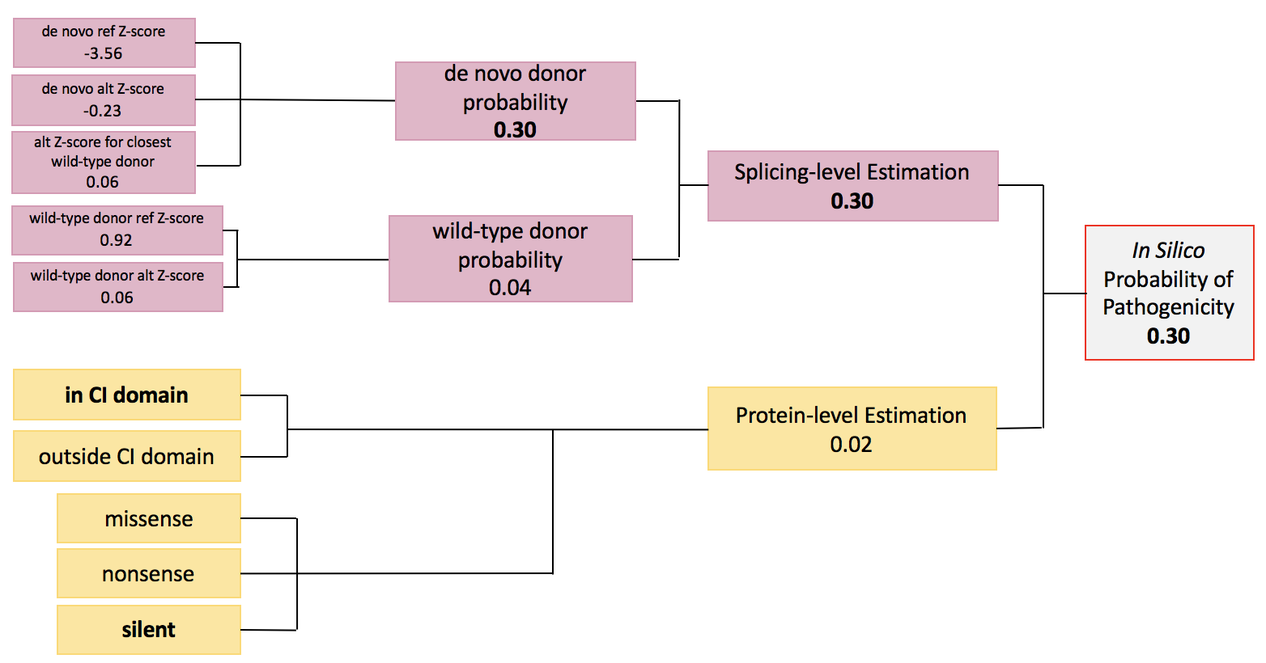
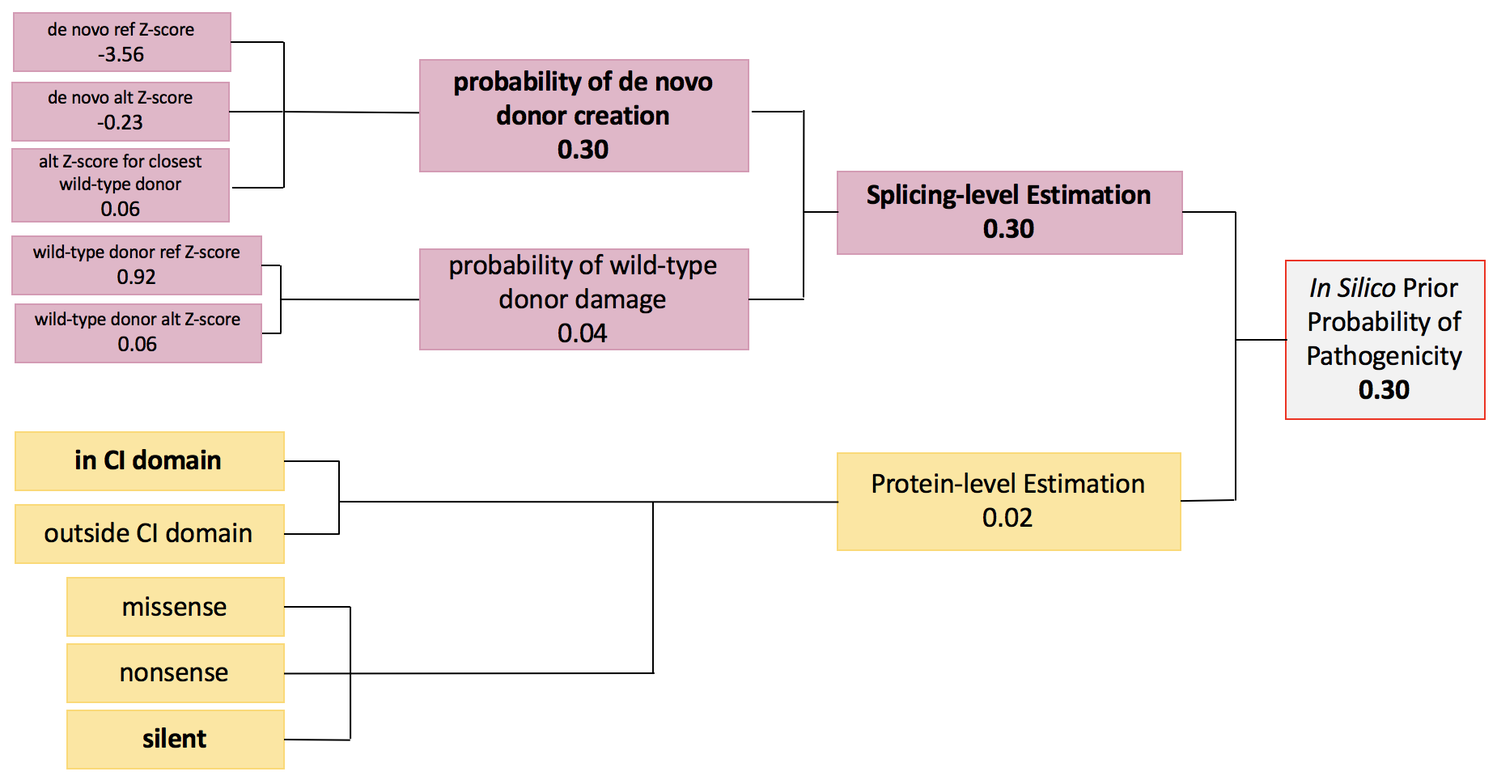
Copied in Amy's documentation updates

diff --git a/website/content/help/research/insilico/insilico-scoring.md b/website/content/help/research/insilico/insilico-scoring.md
@@ -5,11 +5,11 @@ p { text-indent: 2em; }
 
 # Scoring Systems for Splicing-level and Protein-level Estimations
 
-The *In Silico* Probability of Pathogenicity is the greater of two predicted values: the Protein-level Estimation and the Splicing-level Estimation.
+The *In Silico* Prior Probability of Pathogenicity is the greater of two predicted values: the Protein-level Estimation and the Splicing-level Estimation.
 
-## Protein-level Estimations: Align GV-GD Scores
+## Protein-level Estimations: Align-GVGD Scores
 
-For all exonic variants, the "Protein-level Estimation" is calculated using Align GV-GD scores, which assess the protein-level importance of a region per sequence conservation measures and assessments of physiochemical properties. The following figure demonstrates the probabilities of pathogenicity that are used to assign Protein-level Estimation based on variant type (nonsense, missense, silent) and variant location. The estimation accounts for variant location by assessing whether the variant is inside or outside Clinically Important Functional Domains (henceforth CI Domains). CI Domains are modeled according to ENIGMA's criteria.
+For all exonic variants, the “Protein-level Estimation” is calculated using Align-GVGD scores, which assess the protein-level importance of a region per sequence conservation measures and assessments of physiochemical properties. The following figure demonstrates the probabilities of pathogenicity that are used to assign Protein-level Estimation based on variant type (nonsense, missense, silent) and variant location. The estimation accounts for variant location by assessing whether the variant is inside or outside Clinically Important Functional Domains (henceforth CI Domains). CI Domains are modeled according to ENIGMA's designations.
 
 
 ![image 1](scoring-img/img1.png)
@@ -21,15 +21,15 @@ A generalized schema for estimating Protein-level impact is:
 
 ## Splicing-level Estimations: Z-scores and Associated Probabilities
 
-The Splicing-level Estimation is a value that demonstrates the highest possible impact the variant could have on mRNA splicing. Splicing is important since it can have significant impacts on the resulting protein including a completely different amino acid sequence or early truncation. A generalized schema for Splicing-level Estimations is:
+The Splicing-level Estimation is a value that demonstrates the highest possible impact the variant could have on mRNA splicing. Splicing is important since it can have significant impacts on the resulting protein such as a completely different amino acid sequence or early truncation. A generalized schema for Splicing-level Estimations is:
 
 **Z-scores → Wild-type and De Novo Probabilities →  Splicing-level Estimation**
 
-Z-scores underly Splicing-level Estimation. For these calculations, Z-scores measure probability of splicing impact. Alternate Z-scores, or Z-scores for the alternate sequence introduced by the variant, are used to calculate probability of pathogenicity due to splicing. The alternate Z-scores are also compared to reference sequence Z-scores to account for the inherent splicing likelihood in the region, which is often low. Per these Z-scores, predictions are made about splicing impact; probabilities of pathogenicity associated with minimal (or weak/null), moderate, and high impact are assigned as predicted probabilities. There are also probabilities assigned to variants that either improve splicing likelihood or occur outside splice regions.
+Z-scores measure probability of splicing impact. Alternate Z-scores, or Z-scores for the alternate sequence introduced by the variant, measure the probability that the variant affects  splicing. The alternate Z-scores are compared to reference sequence Z-scores to account for the inherent splicing likelihood in the region, which is often low. Predictions are made about splicing impact using these Z-scores; probabilities of pathogenicity associated with minimal (or weak/null), moderate, and high impact are assigned as the predicted probabilities listed in the tables below. There are also probabilities assigned to variants that either improve splicing likelihood or occur outside splice regions.
 
-The Splicing-level Estimation is determined by assessing the variant on two levels, using two sets of Z-scores. A variant is not only assessed for how the altered sequence affects the wild-type splice site (*wild-type acceptor probability, wild-type donor probability*), but also assessed for how it may introduce new, or de novo, donor splice sites  (*de novo probability*).
+The Splicing-level Estimation is determined by assessing the variant on two levels, using two sets of Z-scores. A variant is not only assessed for how the altered sequence affects the wild-type splice site (*probability of wild-type acceptor damage, probability of wild-type donor damage*), but also assessed for how it may introduce new, or de novo, donor splice sites (*probability of de novo donor creation*). 
 
-A Z-score greater than 0 (or 0.5) indicates a better than average likelihood of splicing. If a Z-score is greater than 0 for a *wild-type donor* that contains a variant, function is being retained despite the mutation. However, a Z-score greater than 0 for a *de novo dono*r indicates possible interference of wild-type splice function. In this case, likelihood of splicing outside the wild-type splice site is increasing. The Z-score ranges associated with probabilities of pathogenicity in the case of wild-type donor damage, wild-type acceptor damage, and de novo donor creation are provided below.
+A Z-score greater than 0 (or 0.5) indicates a better than average likelihood of splicing. If a Z-score is greater than 0 for a *wild-type donor*, splicing function is predicted to be retained despite the mutation. However, a Z-score greater than 0 for a *de novo donor* indicates possible interference of wild-type splice function. In this case, likelihood of splicing outside the wild-type splice site is increasing. The Z-score ranges associated with probabilities of pathogenicity in the case of wild-type donor damage, wild-type acceptor damage, and de novo donor creation are provided below.
 
 <img src="scoring-img/img2.png" style="width: 600px;" />
 <img src="scoring-img/img3.png" style="width: 500px;" />
@@ -37,7 +37,7 @@ A Z-score greater than 0 (or 0.5) indicates a better than average likelihood of 
 
 Examples and schemas for how these calculations are made for BRCA Exchange are available in following sections.
 
-# Examples of Calculation Schemas for *In Silico* Probabilities
+# Examples of Calculation Schemas for *In Silico* Prior Probabilities
 
 Below you will find examples of numerous variants across different locations in the *BRCA1* or *BRCA2* gene. Location and information related to splice donors are indicated by pink, while splice acceptors are indicated by blue.
 
@@ -45,7 +45,7 @@ Below you will find examples of numerous variants across different locations in 
 
 Example: [BRCA1 c.132C>T](http://brcaexchange.org/variant/105248)
 
-Because the variant is located in an exon and in a wild-type donor splice site region, the following priors are used in predicting the *In Silico* Probability of Pathogenicity:
+Because the variant is located in an exon and in a wild-type donor splice site region, the following priors are used in predicting the *In Silico* Prior Probability of Pathogenicity:
 
 *   De Novo donor probability (Splicing-level Estimation)
 *   Wild-type donor probability (Splicing-level Estimation)
@@ -54,41 +54,37 @@ Because the variant is located in an exon and in a wild-type donor splice site r
 
 ![image 5](scoring-img/img5.png)
 
-[Caption]
-
 ![image 6](scoring-img/img6.png)
 
-The *In Silico* Probability of Pathogenicity is assigned per the Splicing-level estimation, because the estimated splicing-level impact (0.30)  is greater than estimated protein-level impact (0.02).
+The *In Silico* Prior Probability of Pathogenicity is assigned per the Splicing-level estimation, because the estimated splicing-level impact (0.30)  is greater than estimated protein-level impact (0.02).
 
 Though the variant is in a CI domain, it is a silent mutation. Accordingly, the Protein-level Estimation assigned is low, with a value of 0.02.
 
-The Splicing-level estimation is considered moderate, or 0.30, and is due to the de novo donor probability, which is higher than wild-type donor probability. The de novo alternate Z-score is greater than -2 but less than 0, indicating moderate risk of splicing interference due to de novo splice site creation. It is also worth noting that the de novo alternate Z-score is significantly greater compared to the de novo reference Z-score, implicating that the splicing probability in that region has increased. Conversely, the wild-type donor probability is considered low (0.04) because the wild-type donor alt Z-score is greater than 0; splicing probability in the wild-type donor is retained despite the variant's presence in that region.
+The Splicing-level estimation is considered moderate, or 0.30, and is due to the de novo donor probability, which is higher than wild-type donor probability. The de novo alternate Z-score is greater than -2 but less than 0, indicating moderate probability of splicing interference due to de novo splice site creation. It is also worth noting that the de novo alternate Z-score is significantly greater compared to the de novo reference Z-score, implicating that the splicing probability in that region has increased. Conversely, the wild-type donor probability is considered low (0.04) because the wild-type donor alt Z-score is greater than 0; splicing probability in the wild-type donor is retained despite the variant’s presence in that region.
 
 ### Exonic Variant Located in Wild-Type Splice Site's Acceptor Region
 
 Example: [BRCA1 c.442c>t](http://brcaexchange.org/variant/104977)
 
-Because the variant is located in an exon and in a wild-type acceptor splice site region, the following values are used in predicting the *In Silico* Probability of Pathogenicity:
+Because the variant is located in an exon and in a wild-type acceptor splice site region, the following values are used in predicting the *In Silico* Prior Probability of Pathogenicity: 
 
-*   De Novo donor probability (splicing-level Estimation)
-*   Wild-type acceptor probability (splicing-level Estimation)
+*   De Novo donor probability (Splicing-level Estimation)
+*   Wild-type acceptor probability (Splicing-level Estimation)
 *   Protein-level Estimation
 
 ![image 7](scoring-img/img7.png)
 
-[Caption]
-
 ![image 8](scoring-img/img8.png)
 
-This variant is a nonsense variant, so the *In Silico* Probability of Pathogenicity** **is ultimately assigned per the protein-level estimation (0.99), which is a higher predicted probability of pathogenicity than the splicing-level estimation (0.34).
+This variant is a nonsense variant, so the *In Silico* Prior Probability of Pathogenicity is ultimately assigned per the protein-level estimation (0.99), which is a higher predicted probability of pathogenicity than the splicing-level estimation (0.34).
 
-The Splicing-level Estimation is considered moderate, 0.34, and is due to the wild-type acceptor probability. The wild-type acceptor alt Z-score is less than -1.5, which is normally considered high risk. However, the wild-type acceptor ref Z-score is already less than -1.5, meaning that the risk is not being introduced by the variant, though splicing probability is decreased. A moderate score of 0.34 is thus assigned due to a decrease, but not a drastic decrease, in splicing probability.  The de novo alt Z-score is very low (0.2), indicating that there is low likelihood of de novo splicing occuring in a mutant splice site.
+The Splicing-level Estimation is considered moderate, 0.34, and is due to the wild-type acceptor probability. The wild-type acceptor alt Z-score is less than -1.5, which is normally considered a high acceptor splice site prediction. However, the wild-type acceptor ref Z-score is already less than -1.5, meaning that the acceptor site has a low prediction before the introduction of the variant, though splicing probability is still decreased by the presence of the variant. A moderate score of 0.34 is thus assigned due to a decrease, but not a drastic decrease, in splicing probability.  The de novo alt Z-score is very low (0.2), indicating that there is low likelihood of de novo splicing occurring in a mutant splice site.
 
 ### Exonic Variant Located in Non-splicing Region
 
 Example: [BRCA1 c.55c>t](http://brcaexchange.org/variant/105343)
 
-Because the variant is located in an exon, but not a splicing region, the following values are used in predicting the *In Silico* Probability of Pathogenicity:
+Because the variant is located in an exon, but not a splicing region, the following values are used in predicting the *In Silico* Prior Probability of Pathogenicity:
 
 *   De novo donor probability (Splicing-level Estimation)
 *   Protein-level Estimation
@@ -97,59 +93,52 @@ A de novo donor prior is calculated because the variant could theoretically intr
 
 ![image 9](scoring-img/img9.png)
 
-[Caption]
-
 ![image 10](scoring-img/img10.png)
 
-This variant is a nonsense variant, so the *In Silico* Probability of Pathogenicity** **is ultimately assigned per the protein-level estimation (0.99), which is a higher predicted probability of pathogenicity than the splicing-level estimation (0.02).
+This variant is a nonsense variant, so the *In Silico* Prior Probability of Pathogenicity is ultimately assigned per the Protein-level Estimation (0.99), which is a higher predicted probability of pathogenicity than the Splicing-level Estimation (0.02).
 
-The Splicing-level Estimation is due to the de novo donor probability. The de novo alt Z-score is less than -2, indicating low probability of de novo splicing in that region. Furthermore, the ref Z-score for the nearest wild-type donor is much greater, indicating that splicing is more likely to occur in the wild-type donor region. The wild-type donor probability is not applicable because the variant is not in a donor (or acceptor) region.
+The Splicing-level Estimation is due to the de novo donor probability. The de novo alt Z-score is less than -2, indicating low probability of de novo splicing in that region. Furthermore, the ref Z-score for the nearest wild-type donor is much greater, indicating that splicing is more likely to occur in the wild-type donor region. The wild-type donor probability is not applicable because the variant is not in a donor (or acceptor) region. 
 
 ### Intronic Variant Located in Wild-Type Splice Site's Donor Region
 
 ### Example: [c.441+2t>G](http://brcaexchange.org/variant/104996)
 
-Because the variant is located in an intron and a wild-type donor splice site region, the following values are used in predicting the *In Silico* Probability of Pathogenicity:
+Because the variant is located in an intron and a wild-type donor splice site region, the following values are used in predicting the *In Silico* Prior Probability of Pathogenicity:
 
 *   De novo donor probability (Splicing-level Estimation)
 *   Wild-type donor prior (Splicing-level Estimation)
 
-###
 
 ![image 11](scoring-img/img11.png)
 
-[Caption]
-
 ![image 12](scoring-img/img12.png)
 
-The *In Silico* Probability of Pathogenicity is assigned per the Splicing-level Estimation (0.97), because intronic variants do not have Protein-level Estimations.
+The *In Silico* Prior Probability of Pathogenicity is assigned per the Splicing-level Estimation (0.97), because intronic variants do not have Protein-level Estimations. 
 
 This estimation is derived from the wild-type donor probability, which is 0.97 because the wild-type donor alternate Z-score is significantly lower than the wild-type donor reference Z-score, and much lower than -2.0. Thus, splicing probability in the wild-type donor has significantly decreased.
 
-Please again note that this value was computed *without *using clinical data. However, in this instance, the variant has been classified as Pathogenic per the clinical data available. Please visit this variant's [details page](http://brcaexchange.org/variant/104996) for more information on classifications from ClinVar.
+Please again note that this value was computed *without *using clinical data for this specific variant. However, in this instance, the variant has been classified as Pathogenic per the clinical data available. Please visit this variant's [details page](http://brcaexchange.org/variant/104996) for more information on classifications.
 
 
 ### Intronic Variant Located in Wild-Type Splice Site's Acceptor Region
 
 Example: [c.8488-12A>G](http://brcaexchange.org/variant/65584)
 
-Because the variant is located in an intron and a wild-type splice site's acceptor region, the following values are used in predicting the *In Silico* Probability of Pathogenicity:
+Because the variant is located in an intron and a wild-type splice site's acceptor region, the following values are used in predicting the *In Silico* Prior Probability of Pathogenicity:
 
 *   Wild-type acceptor probability (Splicing-level Estimation)
 
 ![image 13](scoring-img/img13.png)
 
-[Caption]
-
 ![image 14](scoring-img/img14.png)
 
-The *In Silico* Probability of Pathogenicity (0.34, moderate risk) is assigned per the Splicing-level Estimation.
+The *In Silico* Prior Probability of Pathogenicity (0.34, moderate prediction) is assigned per the Splicing-level Estimation. 
 
-The Splicing-level Estimation is considered moderate, 0.34, and is due to the wild-type acceptor probability. The Splicing-level Estimation only uses the wild-type acceptor prior due to the variant's location, and is assigned as moderate because the wild-type acceptor alt Z-score is less than -2. However, the wild-type acceptor ref Z-score was already relatively low, -1.93, and the difference to the alt Z-score is <0.5, so the variant risk is predicted to be moderate rather than high.
+The Splicing-level Estimation is considered moderate, 0.34, and is due to the wild-type acceptor probability. The Splicing-level Estimation only uses the wild-type acceptor prior due to the variant’s location, and is assigned as moderate because the wild-type acceptor alt Z-score is less than -2. However, the wild-type acceptor ref Z-score was already relatively low, -1.93, and the difference to the alt Z-score is <0.5, so the variant’s likelihood of pathogenicity is predicted to be moderate rather than high.
 
 ### A note on special cases:
 
-Variants located outside transcript boundaries, in untranslated regions, in non-splice regions of introns, and in *grey-zones* (end of exon) do not follow the same logic as the above examples. These cases are also not available for display on BRCA Exchange, though they can be found in our downloadable data set.
+Variants located outside transcript boundaries, in untranslated regions, in non-splice regions of introns, and in the region near the end of a transcript do not follow the same logic as the above examples. (It is unknown if a truncating variant near the end of a transcript, dubbed the ‘grey-zone’ by ENIGMA, will confer a high probability of pathogenicity) . These cases are also not available for display on BRCA Exchange, though they can be found in our [downloadable data set](http://brcaexchange.org/releases). 
 
 ## For More Information:
 
@@ -164,12 +153,12 @@ Variants located outside transcript boundaries, in untranslated regions, in non-
 
 The BRCA Exchange used the resources below to calculate the In Silico probabilities with a few minor modifications, which are detailed here. This was done in collaboration with Huntsman Cancer Institute and ENIGMA.
 
-*   Vallee et al 2016 ([https://www.ncbi.nlm.nih.gov/pmc/articles/PMC4907813/](https://www.ncbi.nlm.nih.gov/pmc/articles/PMC4907813/))
+*   Vall&#233;e et al 2016 ([https://www.ncbi.nlm.nih.gov/pmc/articles/PMC4907813/](https://www.ncbi.nlm.nih.gov/pmc/articles/PMC4907813/))
 *   HCI PRIORS Website ([http://priors.hci.utah.edu/PRIORS/index.php](http://priors.hci.utah.edu/PRIORS/index.php))
 
 **Updates to *In Silico* Probabilities Calculations**
 
-*   BRCA Exchange uses the term *In Silico* Probability of Pathogenicity for a value called "Prior Probability" by HCI. "Prior Probability" is used by HCI because a variant's probability is calculated prior_ _to consideration of clinical evidence.
+*   BRCA Exchange uses the term *In Silico* Prior Probability of Pathogenicity for a value called "Prior Probability" by HCI. "Prior Probability" is used by HCI because a variant's probability is calculated prior_ _to consideration of clinical evidence.
 *   Nonsense variants are evaluated for the possibility of splice rescue. Splice rescue is a rare situation in which a variant that introduces a frame shift also introduces a de novo splice site, and the de novo splice site restores the original translation frame.
     *   These variants are assigned a number of relevant flags that explain why or why not a nonsense variant can be rescued by de novo donor splicing.
 *   De novo donor calculations are made for all single nucleotide substitution variants in wild-type sites (including intronic variants), while the HCI website shows de novo donor calculations for exonic variants exclusively.
@@ -181,6 +170,5 @@ The BRCA Exchange used the resources below to calculate the In Silico probabilit
 
 **Notes on *In Silico* Probabilities Code & Pseudocode**
 
-If you would like to take a closer look at how these probabilities are calculated, please visit the BRCA Exchange github to view the software's code and code comments. You can also access the *In Silico* Probabilties of Pathogenicity pseudocode [here](https://docs.google.com/document/d/132uEmKKMYlzcBKoB4LQQw3rCv5llgxQxiiSCOGUftFk/edit), which is an abridged, nonfunctional version of the code that helps the user better understand the logic implemented by the software. Please note that "wild-type" is used interchangeably with "reference" in both of these documents, and that "reference" or "ref" may refer to any reference sequence or the reference (wild-type) splice donor/acceptor.
-
-There is limited information calculated for de novo acceptors in the data produced by the software used for *In Silico* Probability calculation. These types of possible acceptors are still under investigation, and are not yet understood enough to be included in the variant's *In Silico* Probability of Pathogenicity.
+If you would like to take a closer look at how these probabilities are calculated, please visit the BRCA Exchange github to view the software’s code and code comments. You can also access the *In Silico* Prior Probabilities of Pathogenicity pseudocode [here](https://docs.google.com/document/d/132uEmKKMYlzcBKoB4LQQw3rCv5llgxQxiiSCOGUftFk/edit), which is an abridged, nonfunctional version of the code that helps the user better understand the logic implemented by the software. Please note that “wild-type” is used interchangeably with “reference” in both of these documents, and that “reference” or “ref” may refer to any reference sequence or the reference (wild-type) splice donor/acceptor. 
+Currently, there is not enough clinical evidence to provide a reliable, calibrated calculation of impact due to the creation of a de novo splice-site acceptor, which could theoretically factor into Splicing-level Estimation. Accordingly, these types of possible acceptors are still under investigation, and are not yet accounted for in the variant’s In Silico Prior Probability of Pathogenicity.

diff --git a/website/content/help/research/insilico/insilico-pred.md b/website/content/help/research/insilico/insilico-pred.md
@@ -1,27 +1,27 @@
-*In Silico* Probabilities of Pathogenicity can be used to predict whether a variant will have a pathogenic effect. Calculations do not require clinical data for every variant; thus it can be applied for almost every variant based on type or location, regardless of how rare the variant is or what variant-level clinical data is available.  Though each calculation does not require clinical data, the assigned probabilities are based on bioinformatic categories that were thoroughly developed and calibrated using clinical data sets (Tavtigian 2008). **Please consider these probabilities with caution, accounting for the amount of clinical data that is or is not available for the variant in question.** Variants with clinical data will have ENIGMA, ClinVar, or Multifactorial Likelihood Analysis data on the Variant Details Page, all of which provide clinical information more directly.
+The *In Silico* Prior Probability of Pathogenicity can be used to predict whether a variant will have a pathogenic effect or not. Calculations can be applied for almost every variant based on type or location, regardless of how rare the variant is or what variant-level clinical data is available.  Though each calculation does not require clinical data, the assigned probabilities are based on bioinformatic categories that were thoroughly developed and calibrated using clinical data sets of known pathogenic and non-pathogenic variants (3). **Please note these are [in silico](https://en.wikipedia.org/wiki/In_silico) predictions, and cannot be used to classify a variant without additional clinical and functional analysis data for the variant. For classification guidelines, please refer to the [American College of Medical Genetics and Genomics Guidelines](https://www.acmg.net/docs/Standards_Guidelines_for_the_Interpretation_of_Sequence_Variants.pdf).** If available for the variant, clinical data can be found in the ENIGMA, ClinVar, or Multifactorial Likelihood Analysis tiles on the Variant Details Page. 
 
-A variant’s risk can be associated with impact on protein translation or interference with mRNA splicing. The [*In Silico*](https://en.wikipedia.org/wiki/In_silico) Probability of Pathogenicity accounts for both mechanisms, and uses the type and the location of the variant to make predictions. The higher of two estimations, the protein-level estimation or the splicing-level estimation, is ultimately assigned as the *In Silico* Probability of Pathogenicity. By choosing the higher estimation, our model ensures that pathogenicity is predicted conservatively, assigning risk according to highest possible variant impact.
+The predicted pathogenicity for a given variant can be associated with impact on protein translation, protein function, or interference with mRNA splicing. The *In Silico* Prior Probability of Pathogenicity accounts for all three mechanisms, and uses the type and the location of the variant to make predictions. The higher of two estimations, the Protein-level Estimation or the Splicing-level Estimation, is ultimately assigned as the *In Silico* Prior Probability of Pathogenicity. By choosing the higher estimation, our model ensures that pathogenicity is predicted according to highest possible variant impact.
 
 
 <figure style="width: 80%; margin: 0 auto 1em auto;">
     <img src="decision.png" />
-    <figcaption>In this example, the Splicing-level estimation is 0.3, which is greater than the Protein-level estimation 0.02. Thus, the *In Silico* Probability of Pathogenicity is assigned as 0.3 due to predicted splicing-level impact. In other words, splicing impact introduces the most risk for this variant.</figcaption>
+    <figcaption>In this example, the Splicing-level estimation is 0.3, which is greater than the Protein-level estimation 0.02. Thus, the *In Silico* Prior Probability of Pathogenicity is assigned as 0.3 due to predicted splicing-level impact. In other words, splicing impact is predicted to introduce the most probability of pathogenicity for this variant in this case. In other cases, both estimations may independently predict pathogenicity, but the highest is still chosen as the overall prior probability.</figcaption>
 </figure>
 
-In the tile, an *In Silico* Probability of Pathogenicity is displayed on a scale of 0.00 to 1.00. An arrow and a line indicates the probability, with red indicating a higher probability of impact and blue a lower. It also displays variant location, variant type, and a link to the [HCI Breast Cancer Genes Prior probabilities website](http://priors.hci.utah.edu/PRIORS/), which provides more information about these probabilities.
+In the tile, an In Silico Prior Probability of Pathogenicity is displayed on a scale of 0.00 to 1.00. An arrow and a line indicates the prior probability, with red indicating a higher prior probability of impact and blue a lower. It also displays variant location, variant type, and a link to the [HCI Breast Cancer Genes Prior probabilities website](http://priors.hci.utah.edu/PRIORS/), which provides more information about these probabilities. 
 
-The protein-level and splicing-level estimation nested tiles can be expanded by clicking on the header. For the protein-level and splicing-level nested tiles, probabilities are assigned in order to estimate a variant’s predicted impact on both protein translation and mRNA splicing respectively.
+To display more detail about the prediction, nested tiles can be expanded by clicking on their headers. For Protein-level and Splicing-level Estimation tiles, prior probabilities are assigned in order to estimate a variant’s predicted impact on both protein translation and mRNA splicing respectively. 
 
-The Protein-level Estimation checks whether the variant is in a Clinically Important Functional Domain (CI Domain) and the predicted severity of the variant using Align GV-GD scores. Align GV-GD scores assess the difference in physicochemical properties for the amino acid change and the level of conservation across species.
+The Protein-level Estimation checks whether the variant is in a Clinically Important Functional Domain (CI Domain, as designated by ENIGMA) and the predicted severity of the variant using Align-GVGD scores. Align-GVGD scores assess the difference in physicochemical properties for the amino acid change versus the observed range of variation in these properties across species at that position in the protein (2,3).
 
-A splicing-level estimation is also calculated. A variant can impact splicing in two ways: either it alters an existing (wild-type) splice site, or it creates a new (de novo) splice site that is used instead of the wild-type site. A splice site can refer to either a splice donor or splice acceptor site. The splicing-level estimation calculates probabilities for splice likelihood on wild-type donors, wild-type acceptors, and de novo donors. Wild-type sites may be altered, and de novo donors may impact splicing by creating new splice sites. Probabilities for each type of splice site are displayed across the three tabs in the nested tile. Because these probabilities are often mutually exclusive, it is common for at least one value to be Not Applicable (N/A).
+A splicing-level estimation is also calculated. A variant can impact splicing in two ways: either it alters an existing (wild-type) splice donor or splice acceptor site, or it creates a new (de novo) splice site that is used instead of the wild-type site. The splicing-level estimation calculates prior probabilities for a variant to alter wild-type donors/acceptors, or create de novo donors.Prior probabilities for each type of splice site are displayed across the three tabs in the nested tile. Because these probabilities are often mutually exclusive, it is common for at least one value to be Not Applicable (N/A).
 
-In general, green, yellow, and red indicate low, moderate, and high probability of pathogenicity respectively. However, there are some specific color schemes used in each splicing-level tab. For variants in wild-type donor and acceptor regions, a blue row labeled “Improved” indicates that the wild-type splice site score was improved by the variant. A gray row labeled “Outside consensus region” indicates that the variant is not in a splice site. Both of these colors have low probabilities associated with them. In the De Novo Donor tab, however, increased splice likelihood actually heightens risk of pathogenicity; increased likelihood of de novo splicing increases the likelihood for altered splicing. Thus, in the case of De Novo Donors, a red row labeled “Increased” is used to indicate that the variant increases probability of pathogenicity.
+In general, green, yellow, and red indicate low, moderate, and high prior probability of pathogenicity respectively. However, there are some specific color schemes used in each splicing-level tab. For variants in wild-type donor and acceptor regions, a blue row labeled “Improved” indicates that the wild-type splice site score was improved by the variant. A gray row labeled “Outside consensus region” indicates that the variant is not in a splice site. Both of these colors have low prior probabilities associated with them. In the De Novo Donor tab, however, increased splice likelihood actually heightens probability of pathogenicity; increased likelihood of de novo splicing increases the likelihood for altered splicing. Thus, in the case of De Novo Donors, a red row labeled “Increased” is used to indicate that the variant increases prior probability of pathogenicity. 
 
-Please be reminded that although these estimations are well calibrated using clinical data sets, the estimations do not directly utilize clinical evidence collected from patients with the specific variant in question.
 
 For more information about these probabilities, please visit our resource detailing [Scoring Systems for *In Silico* Probabilities of Pathogenicity](/about/insilicoScoring).
 
 ##### References
 1. Vallée, MP. 2016. [PMID 26913838](https://www.ncbi.nlm.nih.gov/pubmed/26913838).
-
+2. Tavtigian, SV. 2006. [PMID 16014699](https://www.ncbi.nlm.nih.gov/pubmed/16014699)
+3. Tavtigian, SV. 2008. [PMID 18951461](https://www.ncbi.nlm.nih.gov/pubmed/18951461)
